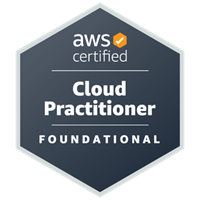
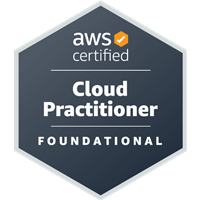
Put certificate badges on a uniform light tile
The three badges cannot share a background. AWS and Unity are dark artwork on
transparency and disappear against a dark card; the Google badge is light
artwork on opaque white and shows its edges against a light one.

Tried removing the Google badge's white background by flood-filling inwards from
the border. That was wrong: the badge is largely white by design - the ribbon,
the certificate body and the text background are all white - so the fill ate
through the artwork rather than the backdrop, clearing 64% of the image. Looking
at the actual file rather than reasoning about pixel values is what caught it.

Instead every badge gets the same light tile. Issuers design these for light
backgrounds, so it is both internally consistent and what the artwork expects,
in either colour scheme.

Badges re-cropped to their content bounds from the higher-resolution originals
and rescaled to 200px: 63 KB for all three.

Changed region(s): [[0.06, 0.0, 0.96, 1.0], [0.18, 0.39, 0.81, 0.75]]

diff --git a/src/Portfolio.Client/Components/Certificates.razor.css b/src/Portfolio.Client/Components/Certificates.razor.css
@@ -27,11 +27,19 @@
     transform: translateY(-2px);
 }
 
+/* Every badge sits on the same light tile. They can't share a background
+   otherwise: Unity and AWS are dark artwork on transparency and vanish against a
+   dark card, while the Google badge is light artwork on opaque white and shows
+   its edges against a light one. Issuers design these for light backgrounds, so
+   giving them one is both consistent and what they expect. */
 .cert-card img {
     width: 7rem;
     height: 7rem;
     object-fit: contain;
     margin-bottom: 1rem;
+    padding: .5rem;
+    background: var(--white);
+    border-radius: var(--radius);
 }
 
 .cert-name {
